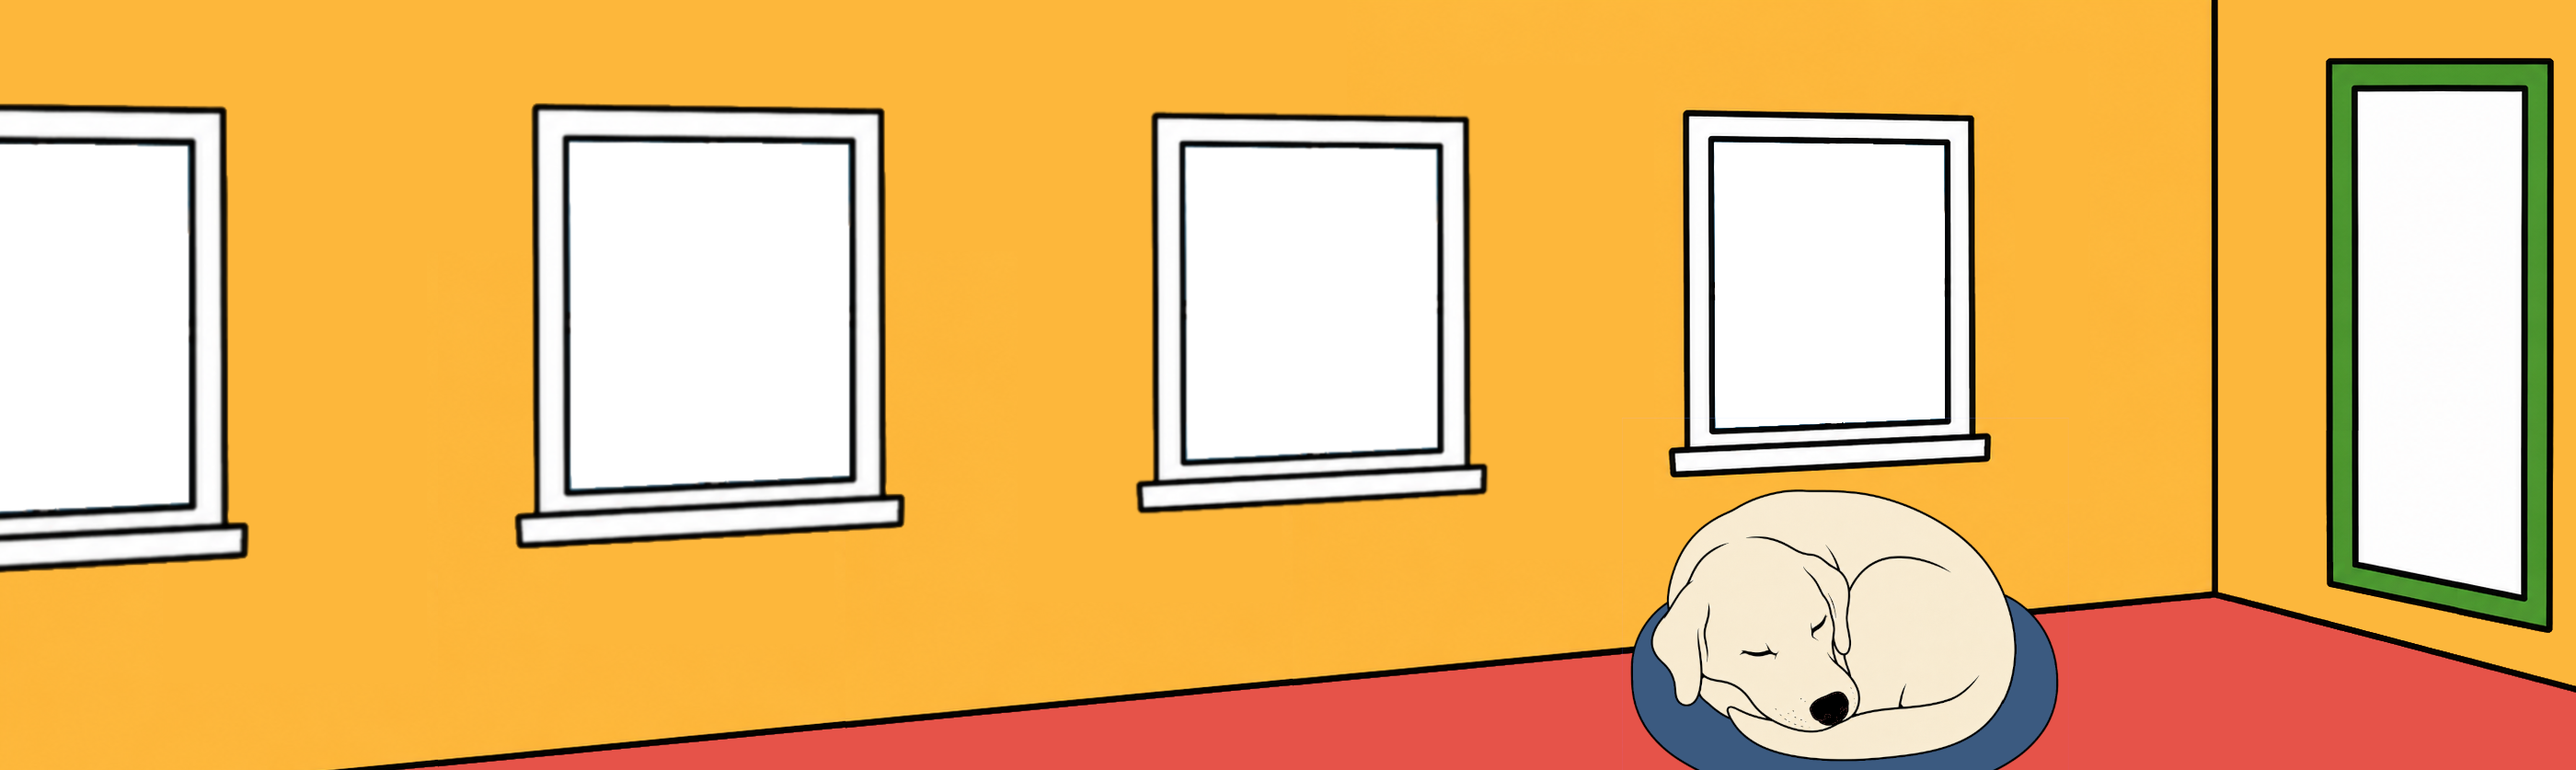
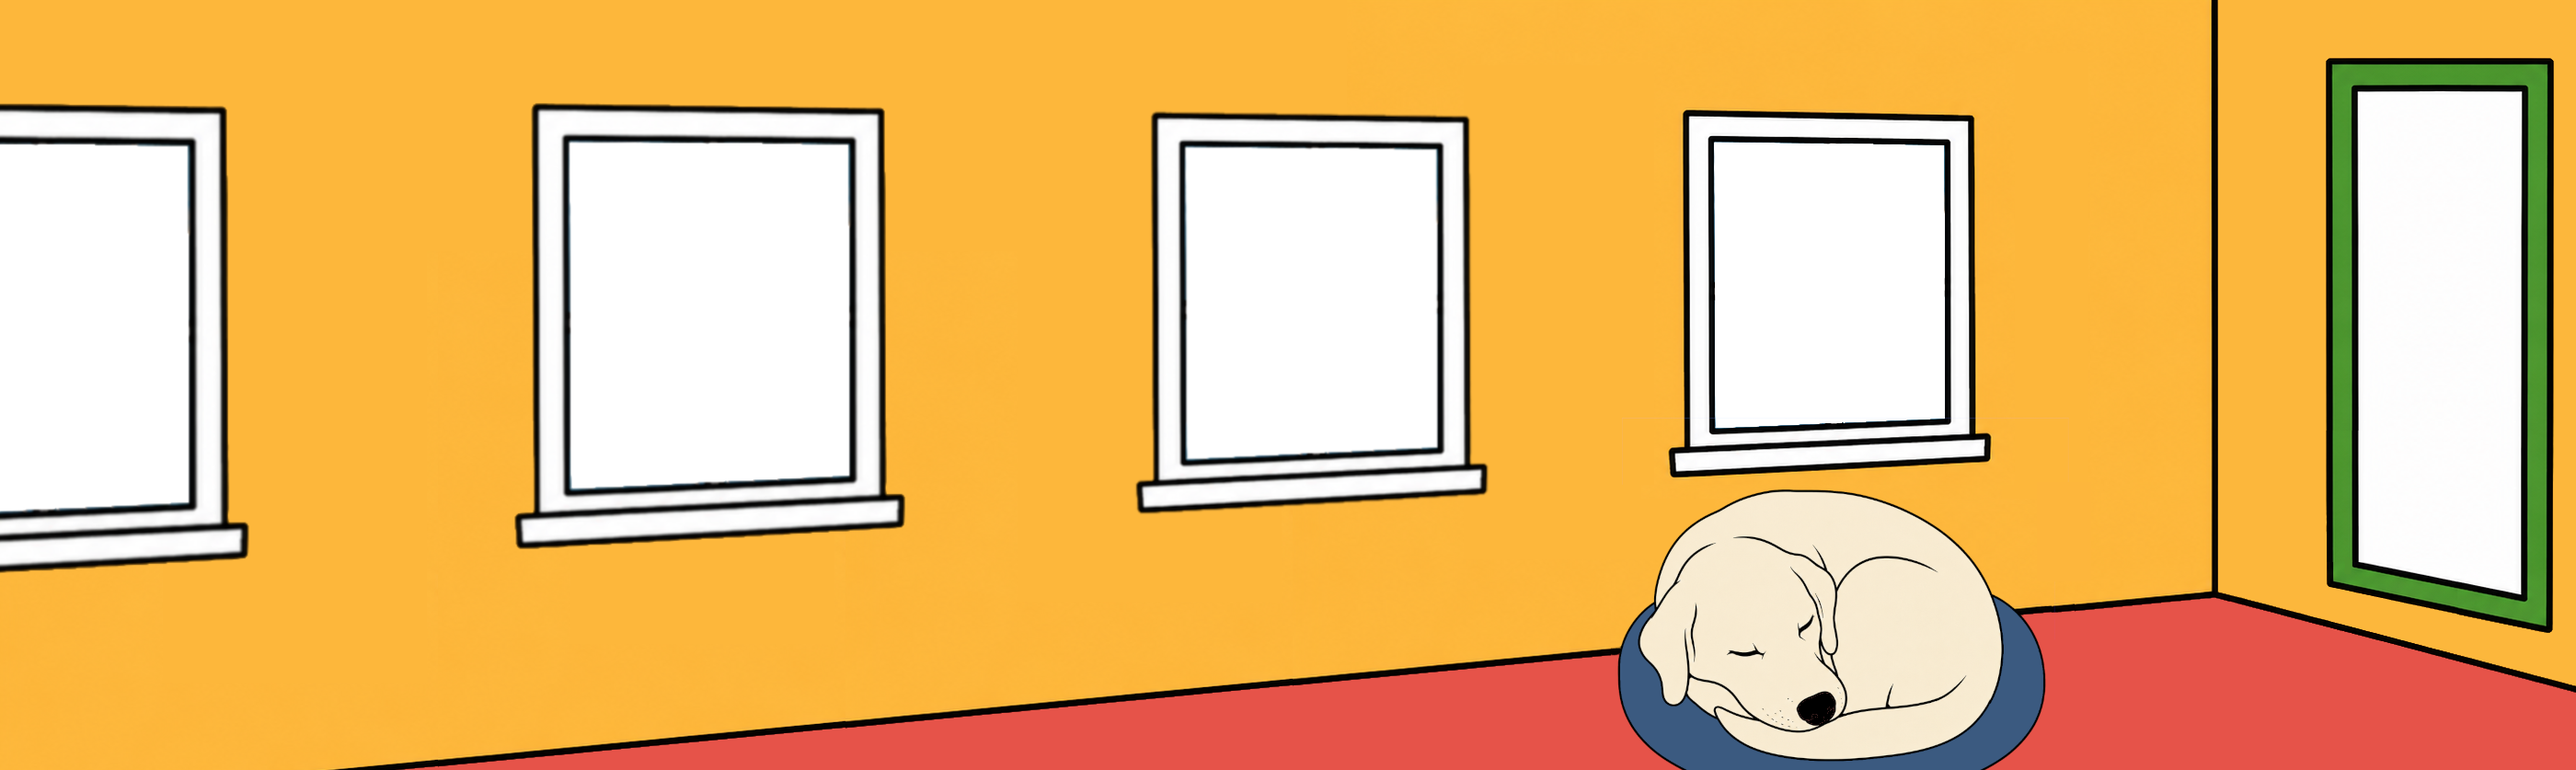
Narrow the Tomorrow events panel and tune the room scene
- The events panel goes from 540px to 530px wide (now 40px narrower
  than the Today buckets), with the width-math comments in
  tomorrow.css and tomorrow.html updated to match
- The clothing kid shifts 5px left in the weather slot
- Updated room art

Changed region(s): [[0.6214, 0.6213, 0.8079, 1.0], [0.6525, 0.994, 0.6836, 1.0]]

diff --git a/server/app/static/css/tomorrow.css b/server/app/static/css/tomorrow.css
@@ -52,8 +52,8 @@
 /* The events panel: a Today bucket without its header row (.today-bucket,
    today.css) — white, 4px black border, 2px radius, and 12px body inset —
    holding up to four events two across in reading order on the buckets'
-   60px-row / 12px-gap grid. 540px wide: 30px narrower than the buckets'
-   570px, shaving 15px off each 1fr column's text area to clear room for the
+   60px-row / 12px-gap grid. 530px wide: 40px narrower than the buckets'
+   570px, shaving 20px off each 1fr column's text area to clear room for the
    room art. No explicit height: it shrink-wraps its visual rows (20px of
    border + padding chrome + 72px per row — _PANEL_CHROME_H/_ROW_H in
    app/tomorrow.py), and the template omits it entirely on an event-less
@@ -63,7 +63,7 @@
   /* above the room art (tier 2, see .tomorrow-room) */
   z-index: 2;
   box-sizing: border-box;
-  width: 540px;
+  width: 530px;
   padding: 12px;
   background: #fff;
   border: 4px solid #000;

diff --git a/server/app/templates/modules/tomorrow.html b/server/app/templates/modules/tomorrow.html
@@ -22,7 +22,7 @@ matching Today's. The room art (static/img/weather/room.png) is a mid-stack
 weather condition icon sits BELOW it (visible only through the window's
 transparent panes), while the label, events panel, clothing kid and
 temperature bar paint above it (z-index tiers in tomorrow.css/weather.css). The events panel is a Today bucket without its header row:
-a plain white div with the same border treatment at 540px width, events laid
+a plain white div with the same border treatment at 530px width, events laid
 out two across in reading order; it shrink-wraps its visual-row count and is
 omitted entirely on an event-less day. Layout constants live in
 static/css/tomorrow.css and must stay in sync with the row-budget geometry in

diff --git a/server/app/static/css/weather.css b/server/app/static/css/weather.css
@@ -80,7 +80,7 @@
    temperature bar and its temp label (both tier 2). */
 .tomorrow-weather-slot .weather-kid {
   position: absolute;
-  left: 7px;
+  left: 2px;
   top: -20px;
   z-index: 3;
   width: 275px;
